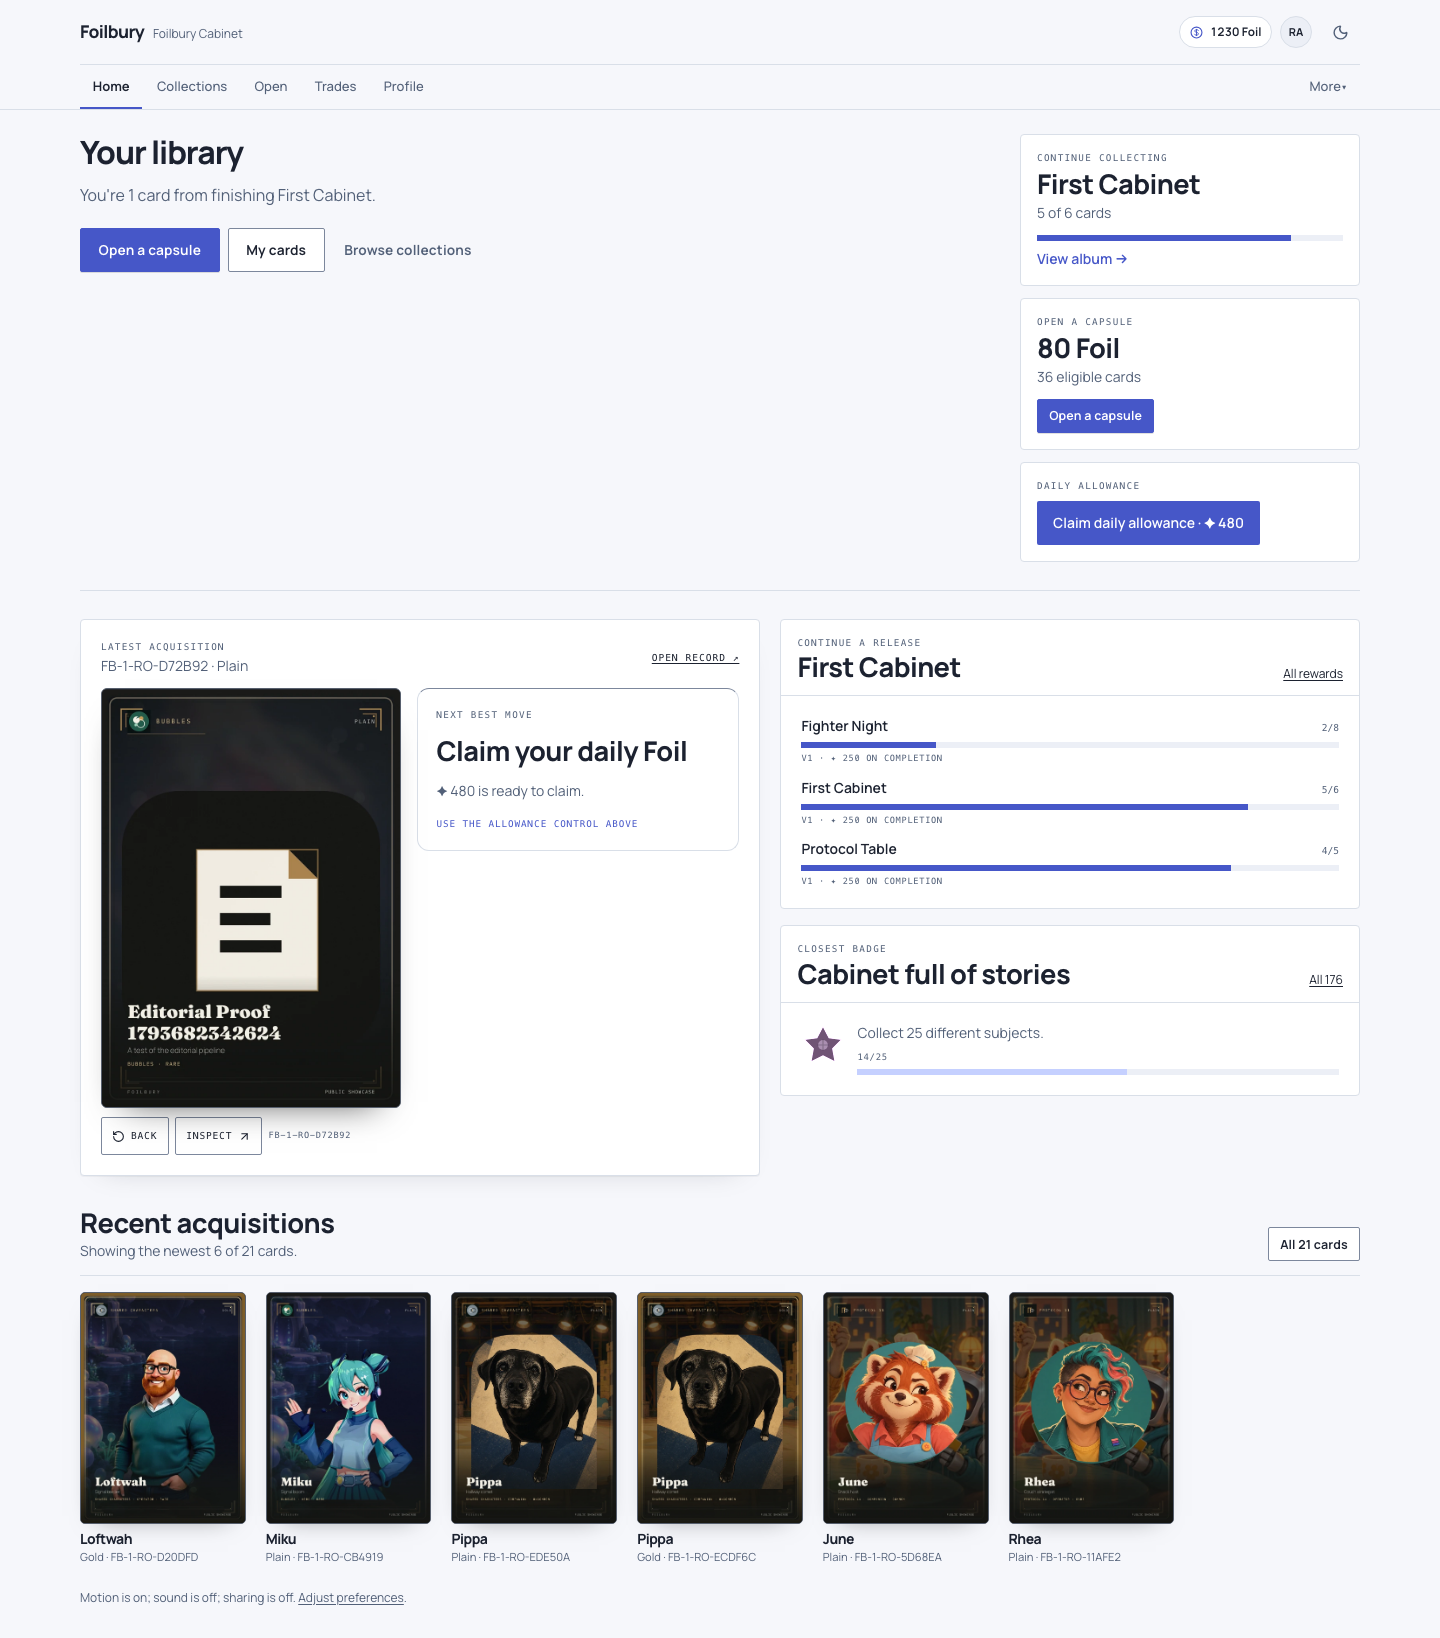
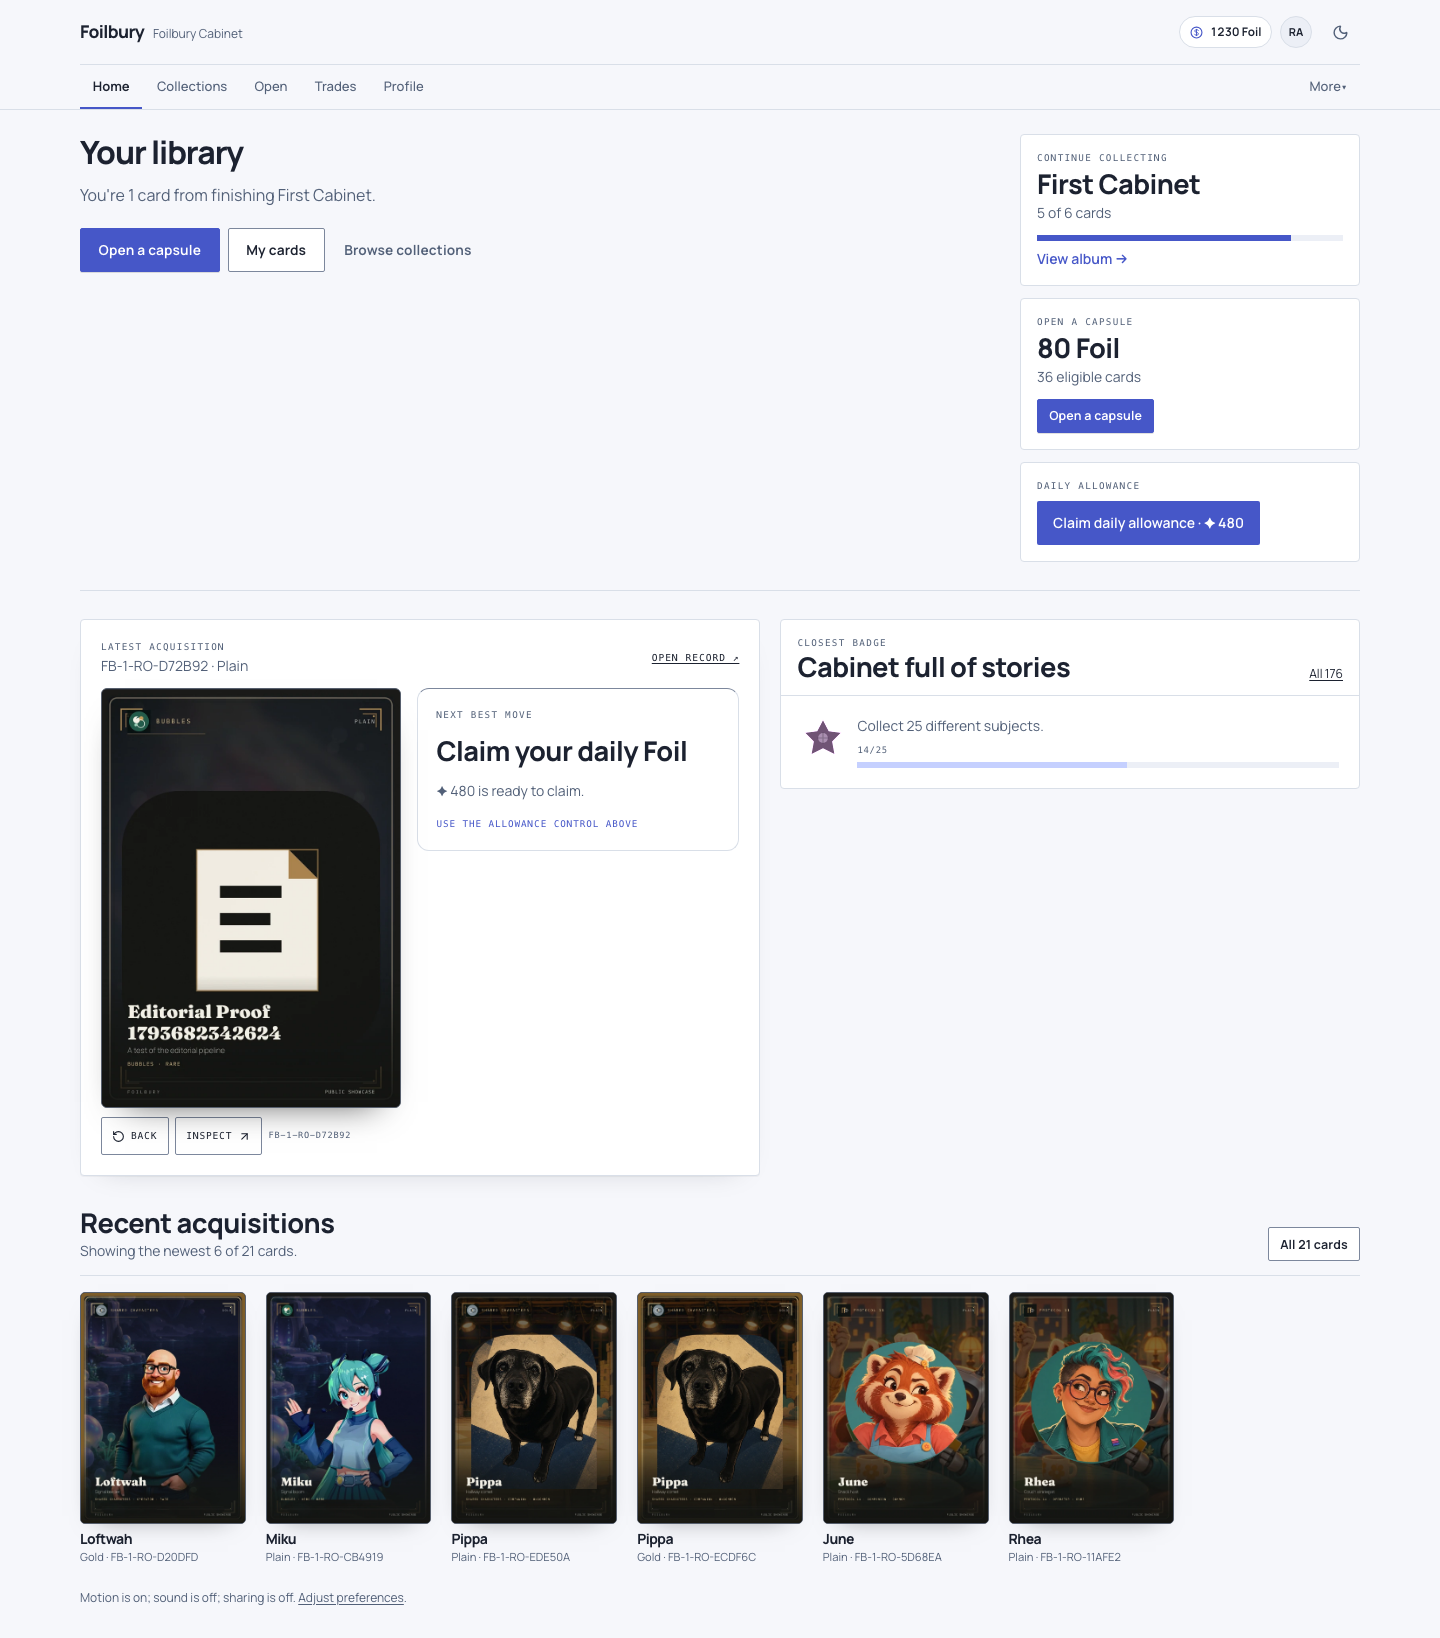
fix: make the mobile player shell and card controls reachable
Order the home so the first card and its flip control stay above the fixed navigation, bound the More menu so it can escape the nav, account for the bottom bar in scroll padding, only mark a copy owned when its definition/variant/edition is live, and disable the flip control until its island hydrates. Product QA now passes 57/57 and UI acceptance passes.

Changed region(s): [[0.5625, 0.3736, 0.875, 0.5604], [0.5625, 0.5916, 0.75, 0.6538], [0.9062, 0.4048, 0.9375, 0.4359]]

diff --git a/src/components/player/PublishedCard.tsx b/src/components/player/PublishedCard.tsx
@@ -1,6 +1,6 @@
 "use client";
 
-import { useState } from "react";
+import { useEffect, useState } from "react";
 import { ArrowUpRight, RotateCcw } from "lucide-react";
 import { cn } from "@/lib/utils";
 
@@ -30,7 +30,12 @@ export default function PublishedCard({
   className?: string;
 }) {
   const [flipped, setFlipped] = useState(false);
+  const [hydrated, setHydrated] = useState(false);
   const back = backUrl || frontUrl;
+
+  useEffect(() => {
+    setHydrated(true);
+  }, []);
 
   const faces = (
     <>
@@ -55,7 +60,7 @@ export default function PublishedCard({
   );
 
   return (
-    <div className={cn("published-card-shell", className)}>
+    <div className={cn("published-card-shell", className)} data-hydrated={hydrated ? "true" : "false"}>
       {href ? (
         <a href={href} className="published-card block no-underline" aria-label={`Inspect ${name}`}>
           {faces}
@@ -71,6 +76,7 @@ export default function PublishedCard({
             onClick={() => setFlipped((value) => !value)}
             aria-pressed={flipped}
             aria-label={flipped ? `Show ${name} front` : `Show ${name} back`}
+            disabled={!hydrated}
           >
             <RotateCcw size={13} aria-hidden="true" /> {flipped ? "Front" : "Back"}
           </button>

diff --git a/src/styles/global.css b/src/styles/global.css
@@ -2777,6 +2777,10 @@ html[data-motion="reduced"] .layered-card__effect {
 }
 
 @media (max-width: 48rem) {
+  html {
+    scroll-padding-bottom: 5.5rem;
+  }
+
   .player-top {
     min-height: 56px;
   }
@@ -2846,5 +2850,41 @@ html[data-motion="reduced"] .layered-card__effect {
 
   .player-top {
     gap: 0.5rem;
+  }
+}
+
+@media (max-width: 48rem) {
+  .cabinet-home {
+    display: flex;
+    flex-direction: column;
+    gap: 1.5rem;
+  }
+
+  .cabinet-home > section:first-child {
+    display: contents;
+  }
+
+  .cabinet-home > section:first-child > div:first-child {
+    order: 1;
+  }
+
+  .cabinet-home > .latest-acquisition {
+    order: 2;
+    margin-top: 0;
+  }
+
+  .cabinet-home > section:first-child > div:last-child {
+    order: 3;
+  }
+
+  .cabinet-home > section:nth-of-type(3) {
+    order: 4;
+    margin-top: 0;
+  }
+
+  .cabinet-home > .notice,
+  .cabinet-home > p {
+    order: 5;
+    margin-top: 0;
   }
 }
